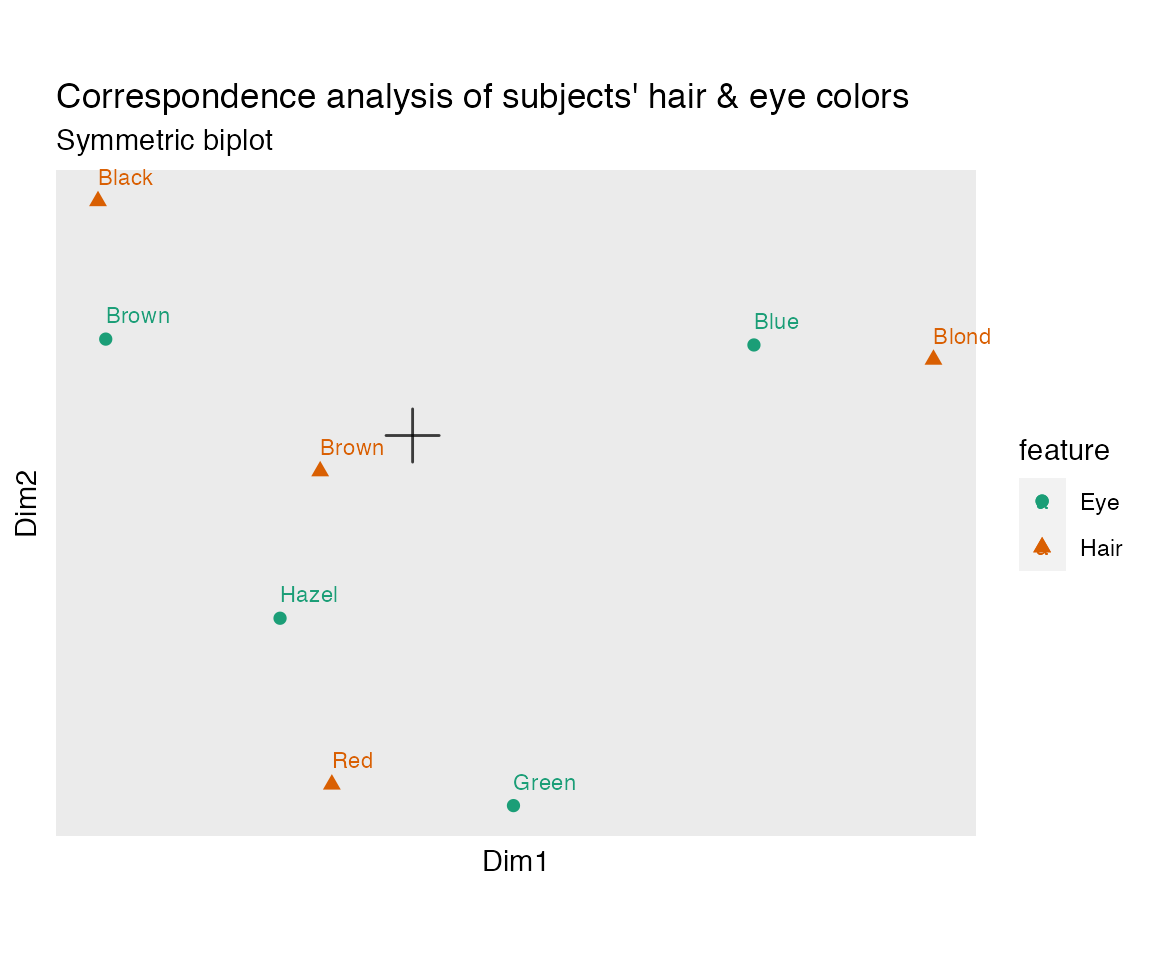
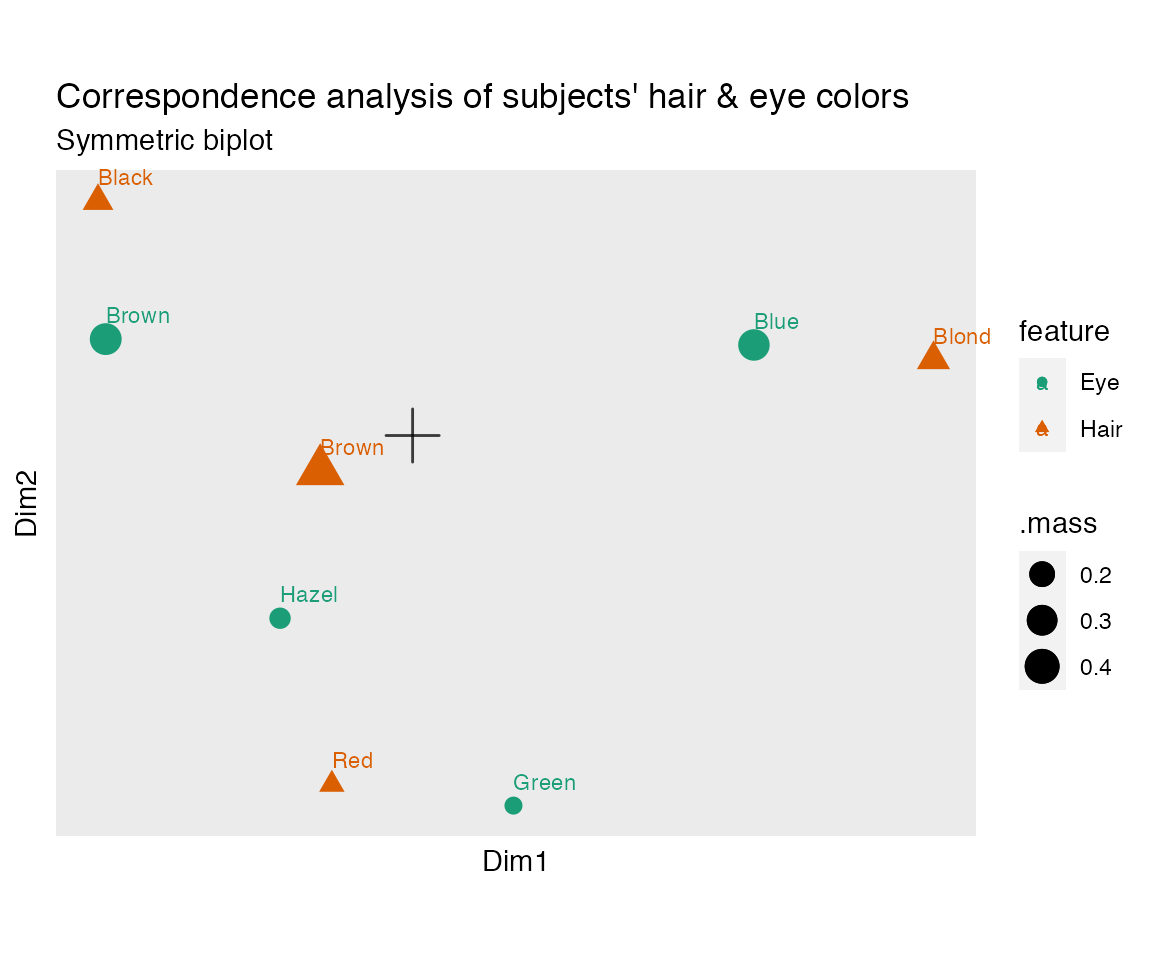
fix(mjca): use columns of rowcoord value rather than nd for number of svs

diff --git a/docs/articles/ordr.html b/docs/articles/ordr.html
@@ -404,11 +404,12 @@
   <span class="fu"><a href="../reference/ggbiplot.html">ggbiplot</a></span><span class="op">(</span><span class="fu">aes</span><span class="op">(</span>color <span class="op">=</span> <span class="va">feature</span>, shape <span class="op">=</span> <span class="va">feature</span>, label <span class="op">=</span> <span class="va">.name</span><span class="op">)</span>, clip <span class="op">=</span> <span class="st">"off"</span><span class="op">)</span> <span class="op">+</span>
   <span class="fu"><a href="../reference/theme_biplot.html">theme_biplot</a></span><span class="op">(</span><span class="op">)</span> <span class="op">+</span>
   <span class="fu"><a href="../reference/geom_origin.html">geom_origin</a></span><span class="op">(</span><span class="op">)</span> <span class="op">+</span>
-  <span class="fu"><a href="../reference/biplot-geoms.html">geom_rows_point</a></span><span class="op">(</span>size <span class="op">=</span> <span class="fl">2</span><span class="op">)</span> <span class="op">+</span>
-  <span class="fu"><a href="../reference/biplot-geoms.html">geom_cols_point</a></span><span class="op">(</span>size <span class="op">=</span> <span class="fl">2</span><span class="op">)</span> <span class="op">+</span>
+  <span class="fu"><a href="../reference/biplot-geoms.html">geom_rows_point</a></span><span class="op">(</span><span class="fu">aes</span><span class="op">(</span>size <span class="op">=</span> <span class="va">.mass</span><span class="op">)</span><span class="op">)</span> <span class="op">+</span>
+  <span class="fu"><a href="../reference/biplot-geoms.html">geom_cols_point</a></span><span class="op">(</span><span class="fu">aes</span><span class="op">(</span>size <span class="op">=</span> <span class="va">.mass</span><span class="op">)</span><span class="op">)</span> <span class="op">+</span>
   <span class="fu"><a href="../reference/biplot-geoms.html">geom_rows_text</a></span><span class="op">(</span>vjust <span class="op">=</span> <span class="op">-</span><span class="fl">1</span>, hjust <span class="op">=</span> <span class="fl">0</span>, size <span class="op">=</span> <span class="fl">3</span><span class="op">)</span> <span class="op">+</span>
   <span class="fu"><a href="../reference/biplot-geoms.html">geom_cols_text</a></span><span class="op">(</span>vjust <span class="op">=</span> <span class="op">-</span><span class="fl">1</span>, hjust <span class="op">=</span> <span class="fl">0</span>, size <span class="op">=</span> <span class="fl">3</span><span class="op">)</span> <span class="op">+</span>
   <span class="fu">scale_color_brewer</span><span class="op">(</span>type <span class="op">=</span> <span class="st">"qual"</span>, palette <span class="op">=</span> <span class="st">"Dark2"</span><span class="op">)</span> <span class="op">+</span>
+  <span class="fu">scale_size_area</span><span class="op">(</span><span class="op">)</span> <span class="op">+</span>
   <span class="fu">ggtitle</span><span class="op">(</span><span class="st">"Correspondence analysis of subjects' hair &amp; eye colors"</span>,
           <span class="st">"Symmetric biplot"</span><span class="op">)</span></code></pre></div>
 <p><img src="ordr_files/figure-html/unnamed-chunk-10-1.png" width="576" style="display: block; margin: auto;"></p>
@@ -419,6 +420,10 @@
 <li>The partial theme <code><a href="../reference/theme_biplot.html">theme_biplot()</a></code> removes several plot elements that are usually not important to biplots, most notably gridlines, while retaining other properties of the current theme.</li>
 <li>The layer <code><a href="../reference/geom_origin.html">geom_origin()</a></code> is one of two shortcuts for plotting elements commonly used in biplots, the other being <code><a href="../reference/geom_unit_circle.html">geom_unit_circle()</a></code>.</li>
 </ul>
+</div>
+<div id="session-info" class="section level2">
+<h2 class="hasAnchor">
+<a href="#session-info" class="anchor"></a>session info</h2>
 <div class="sourceCode" id="cb15"><pre class="downlit sourceCode r">
 <code class="sourceCode R"><span class="fu">sessioninfo</span><span class="fu">::</span><span class="fu"><a href="https://rdrr.io/pkg/sessioninfo/man/session_info.html">session_info</a></span><span class="op">(</span><span class="op">)</span>
 <span class="co">#&gt; ─ Session info ───────────────────────────────────────────────────────────────</span>
@@ -497,7 +502,7 @@
 <span class="co">#&gt;  xfun           0.22       2021-03-11 [2] CRAN (R 4.0.2)                </span>
 <span class="co">#&gt;  yaml           2.2.1      2020-02-01 [2] CRAN (R 4.0.0)                </span>
 <span class="co">#&gt; </span>
-<span class="co">#&gt; [1] /private/var/folders/pg/fjg8r4fj5v33zqmwptf9mfg80000gn/T/RtmpxQm37u/temp_libpath16592513cff1</span>
+<span class="co">#&gt; [1] /private/var/folders/pg/fjg8r4fj5v33zqmwptf9mfg80000gn/T/RtmpgwazL7/temp_libpath177fe620d3824</span>
 <span class="co">#&gt; [2] /Library/Frameworks/R.framework/Versions/4.0/Resources/library</span></code></pre></div>
 </div>
 <div class="footnotes">

diff --git a/docs/reference/methods-mjca.html b/docs/reference/methods-mjca.html
@@ -170,7 +170,7 @@ objects of class <code>"mjca"</code> from the <strong><a href='https://rdrr.io/p
 
 
     <h2 class="hasAnchor" id="examples"><a class="anchor" href="#examples"></a>Examples</h2>
-    <pre class="examples"><div class='input'><span class='co'># data on admissions and rejections from UC Berkeley</span>
+    <pre class="examples"><div class='input'><span class='co'># table of admissions and rejections from UC Berkeley</span>
 <span class='fu'><a href='https://rdrr.io/r/base/class.html'>class</a></span><span class='op'>(</span><span class='va'>UCBAdmissions</span><span class='op'>)</span>
 </div><div class='output co'>#&gt; [1] "table"</div><div class='input'><span class='fu'><a href='https://rdrr.io/r/utils/head.html'>head</a></span><span class='op'>(</span><span class='fu'><a href='https://rdrr.io/r/base/as.data.frame.html'>as.data.frame</a></span><span class='op'>(</span><span class='va'>UCBAdmissions</span><span class='op'>)</span><span class='op'>)</span>
 </div><div class='output co'>#&gt;      Admit Gender Dept Freq
